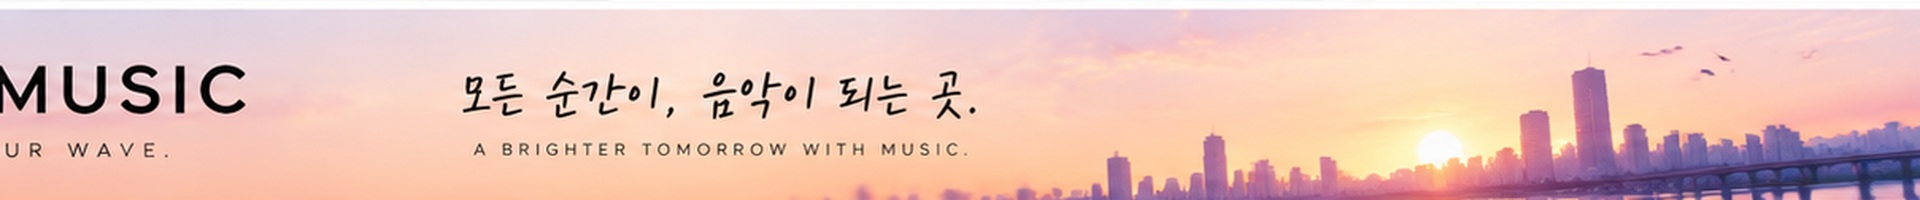
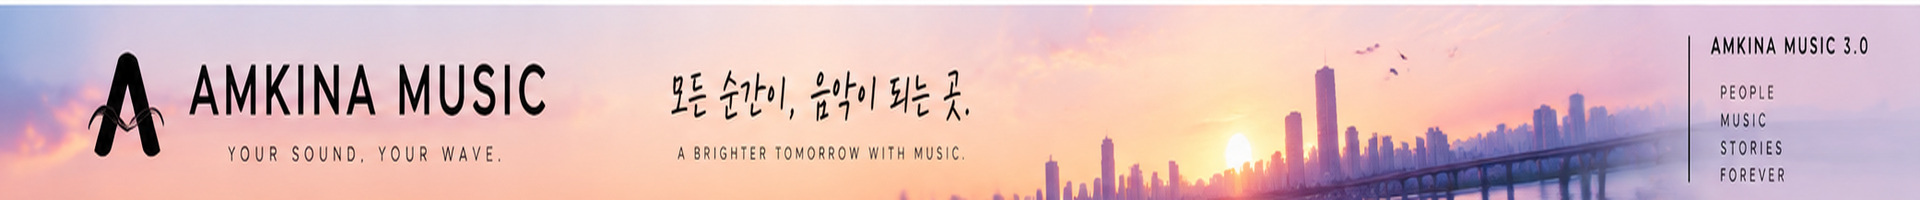
Add files via upload

diff --git a/index.html b/index.html
@@ -3609,6 +3609,14 @@ document.addEventListener("DOMContentLoaded", function(){
 @media(min-width:769px){.hero-slider{display:block!important;margin:16px 24px 28px!important;width:auto!important;height:auto!important;aspect-ratio:9.6/1!important;max-height:none!important;min-height:0!important;border-radius:16px!important}.hero-slider .hero-slide img{object-fit:cover!important}.hero-arrow{width:36px;height:36px;font-size:24px}.hero-dots{bottom:10px!important}}
 @media(max-width:768px){.hero-slider{display:block!important;margin:12px!important;width:auto!important;height:auto!important;aspect-ratio:16/5!important;min-height:0!important;border-radius:14px!important}.hero-slider .hero-slide img{object-fit:cover!important}.hero-arrow{width:32px;height:32px;font-size:22px}.hero-prev{left:8px}.hero-next{right:8px}.hero-dots{bottom:8px!important}}
 </style>
+
+<style id="amkina-banner-no-crop-final">
+/* FINAL: 1920x200 banner ratio, never crop */
+.hero-slider{position:relative!important;height:auto!important;min-height:0!important;aspect-ratio:48/5!important;padding:0!important;overflow:hidden!important;background:#050505!important;}
+.hero-slider .hero-slide,.hero-slider .hero-slide.active{position:absolute!important;inset:0!important;width:100%!important;height:100%!important;padding:0!important;margin:0!important;}
+.hero-slider .hero-slide img{display:block!important;width:100%!important;height:100%!important;max-width:none!important;object-fit:fill!important;object-position:center center!important;margin:0!important;}
+@media(max-width:768px){.hero-slider{aspect-ratio:48/5!important;min-height:0!important;height:auto!important;margin:10px 12px!important;border-radius:12px!important;}}
+</style>
 </head>
 
 <body>
@@ -17394,6 +17402,3 @@ document.addEventListener("DOMContentLoaded",function(){
 </script>
 </body>
 </html>
-```
-````
-`````
